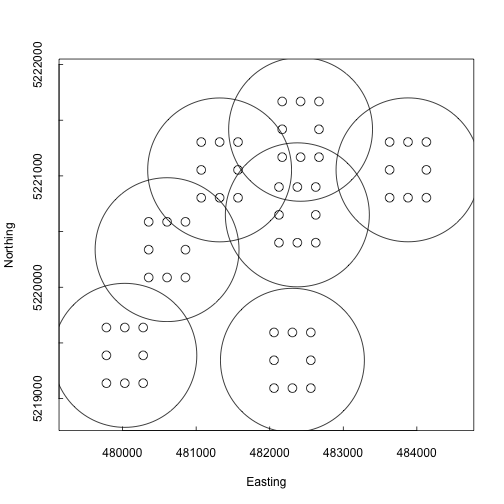
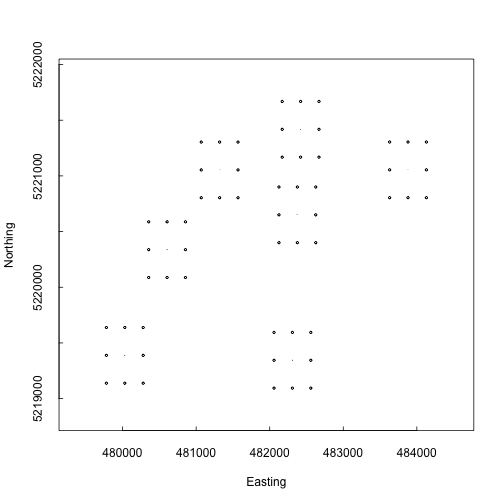
updated formatting

diff --git a/_posts/NEON-API/2017-07-23-NEON_API_ESA_2017.md b/_posts/NEON-API/2017-07-23-NEON_API_ESA_2017.md
@@ -4,11 +4,11 @@ title: "Using the NEON API in R"
 description: "Tutorial for getting data from the NEON API, using R and the R package httr"
 date:   2017-08-07
 dateCreated:  2017-07-07
-lastModified: 2017-08-02
+lastModified: 2017-08-04
 estimatedTime: 1 - 1.5 hours
-packagesLibraries: [httr, devtools, neonDataStackR]
+packagesLibraries: [httr, jsonlite, devtools, geoNEON, neonDataStackR]
 authors: [Claire K. Lunch]
-contributors: [Claire Lunch, Christine Laney, Megan A. Jones]
+contributors: [Christine Laney, Megan A. Jones]
 categories: [self-paced-tutorial]
 mainTag: API
 tags: [R, API]
@@ -24,8 +24,11 @@ comments: false
 {% include _toc.html %}
 
 ## About
-This is a lesson in pulling data from the NEON API, using base R 
-and the R package httr. There are 3 basic categories of NEON data:
+This is a lesson in pulling data from the NEON API. The lesson uses R 
+and the R package httr, but the core information about the API is applicable 
+to other languages and approaches.
+
+There are 3 basic categories of NEON data:
 
 1. Observational - Data collected by a human in the field, or in an analytical laboratory, e.g. beetle identification, foliar isotopes
 1. Instrumentation - Data collected by an automated, streaming sensor, e.g. net radiation, soil carbon dioxide
@@ -67,13 +70,22 @@ preferably, RStudio loaded on your computer.
 </div>
 
 ## Anatomy of an API call
+
+An example API call: http://data.neonscience.org/api/v0/data/DP1.10003.001/WOOD/2015-07
+
+This includes the base URL, endpoint, and target.
+
 ### Base URL: 
+<span style="color:red">http://data.neonscience.org/api/v0</span><span style="color:gray">/data/DP1.10003.001/WOOD/2015-07</span>
+
 Specifics are appended to this in order to get the data or 
 metadata you're looking for, but all calls to this API will include 
 the base URL. For the NEON API, this is http://data.neonscience.org/api/v0 
 (not clickable, because the base URL by itself will take you nowhere!)
 
 ### Endpoints: 
+<span style="color:gray">http://data.neonscience.org/api/v0</span><span style="color:red">/data</span><span style="color:gray">/DP1.10003.001/WOOD/2015-07</span>
+
 What type of data or metadata are you looking for?
 
 * **~/products**
@@ -89,6 +101,8 @@ What type of data or metadata are you looking for?
   Data! By product, site, and date (in monthly chunks).
 
 ### Targets:
+<span style="color:gray">http://data.neonscience.org/api/v0/data</span><span style="color:red">/DP1.10003.001/WOOD/2015-07</span>
+
 The specific product, site, or location you want to get data for.
 
 
@@ -97,17 +111,31 @@ Which product do you want to get data for? Consult the <a href="http://data.neon
 
 We'll pick Breeding landbird point counts, DP1.10003.001
 
-First query the products endpoint of the API to find out which sites and dates have data available. 
-The structure of the URL for the call is base/endpoint/DPID, where DPID is the numbered identifier 
-for the data product:
+First query the products endpoint of the API to find out which sites and dates 
+have data available. In the products endpoint, the target is the numbered 
+identifier for the data product:
 
 
     library(httr)
     library(jsonlite)
     library(dplyr, quietly=T)
+
+    ## Warning: package 'dplyr' was built under R version 3.4.1
+
+    ## 
+    ## Attaching package: 'dplyr'
+
+    ## The following objects are masked from 'package:stats':
+    ## 
+    ##     filter, lag
+
+    ## The following objects are masked from 'package:base':
+    ## 
+    ##     intersect, setdiff, setequal, union
+
     req <- GET("http://data.neonscience.org/api/v0/products/DP1.10003.001")
 
-The object returned from the GET has many layers of information. Entering the name of 
+The object returned from `GET()` has many layers of information. Entering the name of 
 the object gives you some basic information about what you downloaded. The `content()` 
 function returns the contents in the form of a highly nested list. This is typical of 
 JSON-formatted data returned by APIs:
@@ -116,7 +144,7 @@ JSON-formatted data returned by APIs:
     req
 
     ## Response [http://data.neonscience.org/api/v0/products/DP1.10003.001]
-    ##   Date: 2017-08-02 23:12
+    ##   Date: 2017-08-04 16:40
     ##   Status: 200
     ##   Content-Type: application/json;charset=UTF-8
     ##   Size: 7.18 kB
@@ -335,43 +363,43 @@ JSON-formatted data returned by APIs:
     ## 
     ## $data$siteCodes[[7]]
     ## $data$siteCodes[[7]]$siteCode
-    ## [1] "JERC"
+    ## [1] "SCBI"
     ## 
     ## $data$siteCodes[[7]]$availableMonths
     ## $data$siteCodes[[7]]$availableMonths[[1]]
+    ## [1] "2015-06"
+    ## 
+    ## $data$siteCodes[[7]]$availableMonths[[2]]
+    ## [1] "2016-05"
+    ## 
+    ## $data$siteCodes[[7]]$availableMonths[[3]]
     ## [1] "2016-06"
     ## 
     ## 
     ## $data$siteCodes[[7]]$availableDataUrls
     ## $data$siteCodes[[7]]$availableDataUrls[[1]]
-    ## [1] "http://data.neonscience.org:80/api/v0/data/DP1.10003.001/JERC/2016-06"
+    ## [1] "http://data.neonscience.org:80/api/v0/data/DP1.10003.001/SCBI/2015-06"
+    ## 
+    ## $data$siteCodes[[7]]$availableDataUrls[[2]]
+    ## [1] "http://data.neonscience.org:80/api/v0/data/DP1.10003.001/SCBI/2016-05"
+    ## 
+    ## $data$siteCodes[[7]]$availableDataUrls[[3]]
+    ## [1] "http://data.neonscience.org:80/api/v0/data/DP1.10003.001/SCBI/2016-06"
     ## 
     ## 
     ## 
     ## $data$siteCodes[[8]]
     ## $data$siteCodes[[8]]$siteCode
-    ## [1] "SCBI"
+    ## [1] "JERC"
     ## 
     ## $data$siteCodes[[8]]$availableMonths
     ## $data$siteCodes[[8]]$availableMonths[[1]]
-    ## [1] "2015-06"
-    ## 
-    ## $data$siteCodes[[8]]$availableMonths[[2]]
-    ## [1] "2016-05"
-    ## 
-    ## $data$siteCodes[[8]]$availableMonths[[3]]
     ## [1] "2016-06"
     ## 
     ## 
     ## $data$siteCodes[[8]]$availableDataUrls
     ## $data$siteCodes[[8]]$availableDataUrls[[1]]
-    ## [1] "http://data.neonscience.org:80/api/v0/data/DP1.10003.001/SCBI/2015-06"
-    ## 
-    ## $data$siteCodes[[8]]$availableDataUrls[[2]]
-    ## [1] "http://data.neonscience.org:80/api/v0/data/DP1.10003.001/SCBI/2016-05"
-    ## 
-    ## $data$siteCodes[[8]]$availableDataUrls[[3]]
-    ## [1] "http://data.neonscience.org:80/api/v0/data/DP1.10003.001/SCBI/2016-06"
+    ## [1] "http://data.neonscience.org:80/api/v0/data/DP1.10003.001/JERC/2016-06"
     ## 
     ## 
     ## 
@@ -635,8 +663,8 @@ we need. To use it, we need a text version of the content:
     ## 4      OSBS                   2016-05
     ## 5      GUAN                   2015-05
     ## 6      TREE                   2016-06
-    ## 7      JERC                   2016-06
-    ## 8      SCBI 2015-06, 2016-05, 2016-06
+    ## 7      SCBI 2015-06, 2016-05, 2016-06
+    ## 8      JERC                   2016-06
     ## 9      UNDE          2016-06, 2016-07
     ## 10     TALL          2015-06, 2016-07
     ## 11     STER          2015-05, 2016-05
@@ -653,8 +681,8 @@ we need. To use it, we need a text version of the content:
     ## 4                                                                                                                                                http://data.neonscience.org:80/api/v0/data/DP1.10003.001/OSBS/2016-05
     ## 5                                                                                                                                                http://data.neonscience.org:80/api/v0/data/DP1.10003.001/GUAN/2015-05
     ## 6                                                                                                                                                http://data.neonscience.org:80/api/v0/data/DP1.10003.001/TREE/2016-06
-    ## 7                                                                                                                                                http://data.neonscience.org:80/api/v0/data/DP1.10003.001/JERC/2016-06
-    ## 8  http://data.neonscience.org:80/api/v0/data/DP1.10003.001/SCBI/2015-06, http://data.neonscience.org:80/api/v0/data/DP1.10003.001/SCBI/2016-05, http://data.neonscience.org:80/api/v0/data/DP1.10003.001/SCBI/2016-06
+    ## 7  http://data.neonscience.org:80/api/v0/data/DP1.10003.001/SCBI/2015-06, http://data.neonscience.org:80/api/v0/data/DP1.10003.001/SCBI/2016-05, http://data.neonscience.org:80/api/v0/data/DP1.10003.001/SCBI/2016-06
+    ## 8                                                                                                                                                http://data.neonscience.org:80/api/v0/data/DP1.10003.001/JERC/2016-06
     ## 9                                                                         http://data.neonscience.org:80/api/v0/data/DP1.10003.001/UNDE/2016-06, http://data.neonscience.org:80/api/v0/data/DP1.10003.001/UNDE/2016-07
     ## 10                                                                        http://data.neonscience.org:80/api/v0/data/DP1.10003.001/TALL/2015-06, http://data.neonscience.org:80/api/v0/data/DP1.10003.001/TALL/2016-07
     ## 11                                                                        http://data.neonscience.org:80/api/v0/data/DP1.10003.001/STER/2015-05, http://data.neonscience.org:80/api/v0/data/DP1.10003.001/STER/2016-05
@@ -681,10 +709,10 @@ need to tell us what we can download.
     ##  [6] "http://data.neonscience.org:80/api/v0/data/DP1.10003.001/OSBS/2016-05"
     ##  [7] "http://data.neonscience.org:80/api/v0/data/DP1.10003.001/GUAN/2015-05"
     ##  [8] "http://data.neonscience.org:80/api/v0/data/DP1.10003.001/TREE/2016-06"
-    ##  [9] "http://data.neonscience.org:80/api/v0/data/DP1.10003.001/JERC/2016-06"
-    ## [10] "http://data.neonscience.org:80/api/v0/data/DP1.10003.001/SCBI/2015-06"
-    ## [11] "http://data.neonscience.org:80/api/v0/data/DP1.10003.001/SCBI/2016-05"
-    ## [12] "http://data.neonscience.org:80/api/v0/data/DP1.10003.001/SCBI/2016-06"
+    ##  [9] "http://data.neonscience.org:80/api/v0/data/DP1.10003.001/SCBI/2015-06"
+    ## [10] "http://data.neonscience.org:80/api/v0/data/DP1.10003.001/SCBI/2016-05"
+    ## [11] "http://data.neonscience.org:80/api/v0/data/DP1.10003.001/SCBI/2016-06"
+    ## [12] "http://data.neonscience.org:80/api/v0/data/DP1.10003.001/JERC/2016-06"
     ## [13] "http://data.neonscience.org:80/api/v0/data/DP1.10003.001/UNDE/2016-06"
     ## [14] "http://data.neonscience.org:80/api/v0/data/DP1.10003.001/UNDE/2016-07"
     ## [15] "http://data.neonscience.org:80/api/v0/data/DP1.10003.001/TALL/2015-06"
@@ -705,7 +733,7 @@ need to tell us what we can download.
 
 These are the URLs showing us what files are available for each month where 
 there are data. For simplicity, we'll just query the single month of data 
-available at the Woodworth site.
+available at the Woodworth (WOOD) site.
 
 
     brd <- GET(bird.urls[grep("WOOD", bird.urls)])
@@ -737,43 +765,43 @@ available at the Woodworth site.
     ## 6  69927
     ## 7  67239
     ##                                                                                                                                                                                                                                                                                                                                                                                                                                                                            url
-    ## 1                  https://neon-prod-pub-1.s3.data.neonscience.org/NEON.DOM.SITE.DP1.10003.001/PROV/WOOD/20150701T000000--20150801T000000/basic/NEON.D09.WOOD.DP0.10003.001.validation.20170720T182547Z.csv?X-Amz-Algorithm=AWS4-HMAC-SHA256&X-Amz-Date=20170802T231304Z&X-Amz-SignedHeaders=host&X-Amz-Expires=3600&X-Amz-Credential=pub-internal-read%2F20170802%2Fdata%2Fs3%2Faws4_request&X-Amz-Signature=fa9b000623b20e791bf27c428d8cfb47f43e30adf1b4569df51a178cdf64a393
-    ## 2 https://neon-prod-pub-1.s3.data.neonscience.org/NEON.DOM.SITE.DP1.10003.001/PROV/WOOD/20150701T000000--20150801T000000/basic/NEON.D09.WOOD.DP1.10003.001.brd_countdata.2015-07.basic.20170720T182547Z.csv?X-Amz-Algorithm=AWS4-HMAC-SHA256&X-Amz-Date=20170802T231304Z&X-Amz-SignedHeaders=host&X-Amz-Expires=3600&X-Amz-Credential=pub-internal-read%2F20170802%2Fdata%2Fs3%2Faws4_request&X-Amz-Signature=d4ae04145ca165afea8b4d70b00437df38df2bc95d19287fe88b6a9645cbfd34
-    ## 3                   https://neon-prod-pub-1.s3.data.neonscience.org/NEON.DOM.SITE.DP1.10003.001/PROV/WOOD/20150701T000000--20150801T000000/basic/NEON.D09.WOOD.DP1.10003.001.variables.20170720T182547Z.csv?X-Amz-Algorithm=AWS4-HMAC-SHA256&X-Amz-Date=20170802T231304Z&X-Amz-SignedHeaders=host&X-Amz-Expires=3600&X-Amz-Credential=pub-internal-read%2F20170802%2Fdata%2Fs3%2Faws4_request&X-Amz-Signature=0e0dc227aba0cfe11d73b106d6171839f791f1b648a5103876c54c33e87ca5f0
-    ## 4                                                https://neon-prod-pub-1.s3.data.neonscience.org/NEON.DOM.SITE.DP1.10003.001/PROV/WOOD/20150701T000000--20150801T000000/basic/NEON.DP1.10003.001_readme.txt?X-Amz-Algorithm=AWS4-HMAC-SHA256&X-Amz-Date=20170802T231304Z&X-Amz-SignedHeaders=host&X-Amz-Expires=3600&X-Amz-Credential=pub-internal-read%2F20170802%2Fdata%2Fs3%2Faws4_request&X-Amz-Signature=77fc31d5f4d1bfbdde6397cea8fc81592548cf43cb4401f5386af2948c0bd3ca
-    ## 5  https://neon-prod-pub-1.s3.data.neonscience.org/NEON.DOM.SITE.DP1.10003.001/PROV/WOOD/20150701T000000--20150801T000000/basic/NEON.D09.WOOD.DP1.10003.001.brd_perpoint.2015-07.basic.20170720T182547Z.csv?X-Amz-Algorithm=AWS4-HMAC-SHA256&X-Amz-Date=20170802T231304Z&X-Amz-SignedHeaders=host&X-Amz-Expires=3600&X-Amz-Credential=pub-internal-read%2F20170802%2Fdata%2Fs3%2Faws4_request&X-Amz-Signature=012da88765d144296816d3cf7c05877224c7d833ac44148fa0a8bc94d85ae2e4
-    ## 6                            https://neon-prod-pub-1.s3.data.neonscience.org/NEON.DOM.SITE.DP1.10003.001/PROV/WOOD/20150701T000000--20150801T000000/basic/NEON.D09.WOOD.DP1.10003.001.20150101-20160613.xml?X-Amz-Algorithm=AWS4-HMAC-SHA256&X-Amz-Date=20170802T231304Z&X-Amz-SignedHeaders=host&X-Amz-Expires=3599&X-Amz-Credential=pub-internal-read%2F20170802%2Fdata%2Fs3%2Faws4_request&X-Amz-Signature=9e19f4f37f57ea287cac7507b6eb25ebc6b39430d9f1da487e8ee33eccb29160
-    ## 7               https://neon-prod-pub-1.s3.data.neonscience.org/NEON.DOM.SITE.DP1.10003.001/PROV/WOOD/20150701T000000--20150801T000000/basic/NEON.D09.WOOD.DP1.10003.001.2015-07.basic.20170720T182547Z.zip?X-Amz-Algorithm=AWS4-HMAC-SHA256&X-Amz-Date=20170802T231304Z&X-Amz-SignedHeaders=host&X-Amz-Expires=3600&X-Amz-Credential=pub-internal-read%2F20170802%2Fdata%2Fs3%2Faws4_request&X-Amz-Signature=c0c2092182b1eb1361a836ebf7b6573c7dce787312a634ffd34328eb36454833
+    ## 1                  https://neon-prod-pub-1.s3.data.neonscience.org/NEON.DOM.SITE.DP1.10003.001/PROV/WOOD/20150701T000000--20150801T000000/basic/NEON.D09.WOOD.DP0.10003.001.validation.20170720T182547Z.csv?X-Amz-Algorithm=AWS4-HMAC-SHA256&X-Amz-Date=20170804T164020Z&X-Amz-SignedHeaders=host&X-Amz-Expires=3600&X-Amz-Credential=pub-internal-read%2F20170804%2Fdata%2Fs3%2Faws4_request&X-Amz-Signature=2cf45526ec0dbec6773b654ef2b1a84ac4652e34015ec0a0a6c76242010e9769
+    ## 2 https://neon-prod-pub-1.s3.data.neonscience.org/NEON.DOM.SITE.DP1.10003.001/PROV/WOOD/20150701T000000--20150801T000000/basic/NEON.D09.WOOD.DP1.10003.001.brd_countdata.2015-07.basic.20170720T182547Z.csv?X-Amz-Algorithm=AWS4-HMAC-SHA256&X-Amz-Date=20170804T164020Z&X-Amz-SignedHeaders=host&X-Amz-Expires=3600&X-Amz-Credential=pub-internal-read%2F20170804%2Fdata%2Fs3%2Faws4_request&X-Amz-Signature=f59e46510e629f4f0a094e79496856313fc1cc1e23ce8f848365c9f2999827bd
+    ## 3                   https://neon-prod-pub-1.s3.data.neonscience.org/NEON.DOM.SITE.DP1.10003.001/PROV/WOOD/20150701T000000--20150801T000000/basic/NEON.D09.WOOD.DP1.10003.001.variables.20170720T182547Z.csv?X-Amz-Algorithm=AWS4-HMAC-SHA256&X-Amz-Date=20170804T164020Z&X-Amz-SignedHeaders=host&X-Amz-Expires=3600&X-Amz-Credential=pub-internal-read%2F20170804%2Fdata%2Fs3%2Faws4_request&X-Amz-Signature=be6abcf1930bc0aad6e4813fe281b3f1fdea968a0aa4729e0a92455416efcdc9
+    ## 4                                                https://neon-prod-pub-1.s3.data.neonscience.org/NEON.DOM.SITE.DP1.10003.001/PROV/WOOD/20150701T000000--20150801T000000/basic/NEON.DP1.10003.001_readme.txt?X-Amz-Algorithm=AWS4-HMAC-SHA256&X-Amz-Date=20170804T164020Z&X-Amz-SignedHeaders=host&X-Amz-Expires=3600&X-Amz-Credential=pub-internal-read%2F20170804%2Fdata%2Fs3%2Faws4_request&X-Amz-Signature=8e02ec526497b50de590fb90d078dab78fb21d61f86d066d0702780811467522
+    ## 5  https://neon-prod-pub-1.s3.data.neonscience.org/NEON.DOM.SITE.DP1.10003.001/PROV/WOOD/20150701T000000--20150801T000000/basic/NEON.D09.WOOD.DP1.10003.001.brd_perpoint.2015-07.basic.20170720T182547Z.csv?X-Amz-Algorithm=AWS4-HMAC-SHA256&X-Amz-Date=20170804T164020Z&X-Amz-SignedHeaders=host&X-Amz-Expires=3600&X-Amz-Credential=pub-internal-read%2F20170804%2Fdata%2Fs3%2Faws4_request&X-Amz-Signature=f3e6e7d2dee90f0f32f02197acb41ffc78cab79b391104a661d068722ea0163f
+    ## 6                            https://neon-prod-pub-1.s3.data.neonscience.org/NEON.DOM.SITE.DP1.10003.001/PROV/WOOD/20150701T000000--20150801T000000/basic/NEON.D09.WOOD.DP1.10003.001.20150101-20160613.xml?X-Amz-Algorithm=AWS4-HMAC-SHA256&X-Amz-Date=20170804T164020Z&X-Amz-SignedHeaders=host&X-Amz-Expires=3600&X-Amz-Credential=pub-internal-read%2F20170804%2Fdata%2Fs3%2Faws4_request&X-Amz-Signature=04d8e0bd60f590cb41bfe5e7e00ebcd295f0b76ba362499332c30790d972f760
+    ## 7               https://neon-prod-pub-1.s3.data.neonscience.org/NEON.DOM.SITE.DP1.10003.001/PROV/WOOD/20150701T000000--20150801T000000/basic/NEON.D09.WOOD.DP1.10003.001.2015-07.basic.20170720T182547Z.zip?X-Amz-Algorithm=AWS4-HMAC-SHA256&X-Amz-Date=20170804T164020Z&X-Amz-SignedHeaders=host&X-Amz-Expires=3600&X-Amz-Credential=pub-internal-read%2F20170804%2Fdata%2Fs3%2Faws4_request&X-Amz-Signature=2894ff4ed5282db0bb7d992b2d4e9aa6bf5b947168e0772e136e588c91c3fb96
 
 And now we have the names of the data files available for this site and 
 month, and URLs where we can get the data files themselves. We'll use 
 the file names to pick which ones we want. To translate, available files for 
 July 2015 at Woodworth are all of the following: 
 
-* NEON.D09.WOOD.DP1.10003.001.2015-07.expanded.20170720T182547Z.zip
+* **NEON.D09.WOOD.DP1.10003.001.2015-07.expanded.20170720T182547Z.zip**
   + zip of all files in the expanded package
-* NEON.D09.WOOD.DP1.10003.001.brd_countdata.2015-07.expanded.20170720T182547Z.csv
+* **NEON.D09.WOOD.DP1.10003.001.brd_countdata.2015-07.expanded.20170720T182547Z.csv**
   + count data table, expanded package version: counts of birds at each point
-* NEON.D09.WOOD.DP1.10003.001.brd_perpoint.2015-07.expanded.20170720T182547Z.csv
+* **NEON.D09.WOOD.DP1.10003.001.brd_perpoint.2015-07.expanded.20170720T182547Z.csv**
   + point data table, expanded package version: metadata at each observation point
-* NEON.Bird Conservancy of the Rockies.brd_personnel.csv
+* **NEON.Bird Conservancy of the Rockies.brd_personnel.csv**
   + personnel data table: accuracy scores for bird observers
-* NEON.D09.WOOD.DP1.10003.001.2015-07.basic.20170720T182547Z.zip
+* **NEON.D09.WOOD.DP1.10003.001.2015-07.basic.20170720T182547Z.zip**
   + zip of all files in the basic package
-* NEON.D09.WOOD.DP1.10003.001.brd_countdata.2015-07.basic.20170720T182547Z.csv
+* **NEON.D09.WOOD.DP1.10003.001.brd_countdata.2015-07.basic.20170720T182547Z.csv**
   + count data table, basic package version: counts of birds at each point
-* NEON.D09.WOOD.DP1.10003.001.brd_perpoint.2015-07.basic.20170720T182547Z.csv
+* **NEON.D09.WOOD.DP1.10003.001.brd_perpoint.2015-07.basic.20170720T182547Z.csv**
   + point data table, basic package version: metadata at each observation point
-* NEON.DP1.10003.001_readme.txt
+* **NEON.DP1.10003.001_readme.txt**
   + readme for the data product (not specific to dates or location)
   + appears twice in the list, since it's in both the basic and expanded package
-* NEON.D09.WOOD.DP1.10003.001.20150101-20160613.xml
+* **NEON.D09.WOOD.DP1.10003.001.20150101-20160613.xml**
   + Ecological Metadata Language (EML) file
   + appears twice in the list, since it's in both the basic and expanded package
-* NEON.D09.WOOD.DP0.10003.001.validation.20170720T182547Z.csv
+* **NEON.D09.WOOD.DP0.10003.001.validation.20170720T182547Z.csv**
   + validation file for the data product: lists input data and data entry rules
   + appears twice in the list, since it's in both the basic and expanded package
-* NEON.D09.WOOD.DP1.10003.001.variables.20170720T182547Z.csv
+* **NEON.D09.WOOD.DP1.10003.001.variables.20170720T182547Z.csv**
   + variables file for the data product: lists data fields in downloaded tables
   + appears twice in the list, since it's in both the basic and expanded package
 
@@ -1040,30 +1068,30 @@ WOOD_013.birdGrid.brd
     ## 
     ## $data$locationProperties
     ##                             locationPropertyName locationPropertyValue
-    ## 1                              Value for Plot ID              WOOD_013
-    ## 2                            Value for Plot size                250000
-    ## 3                            Value for Plot type           distributed
-    ## 4                      Value for Plot dimensions           500m x 500m
-    ## 5             Value for Reference Point Position                    B2
+    ## 1                            Value for Plot size                250000
+    ## 2             Value for Reference Point Position                    B2
+    ## 3                         Value for Plot subtype              birdGrid
+    ## 4                      Value for Soil type order             Mollisols
+    ## 5                            Value for Plot type           distributed
     ## 6                Value for Subtype Specification            ninePoints
-    ## 7                      Value for Soil type order             Mollisols
+    ## 7                              Value for Plot ID              WOOD_013
     ## 8  Value for National Land Cover Database (2001)   grasslandHerbaceous
-    ## 9                         Value for Plot subtype              birdGrid
-    ## 10                      Value for Geodetic datum                 WGS84
-    ## 11                              Value for County              Stutsman
-    ## 12                        Value for Slope aspect                238.91
+    ## 9                      Value for Plot dimensions           500m x 500m
+    ## 10                      Value for State province                    ND
+    ## 11                        Value for Slope aspect                238.91
+    ## 12                   Value for Minimum elevation                569.79
     ## 13                   Value for Maximum elevation                579.31
-    ## 14    Value for Positional dilution of precision                   2.4
-    ## 15                      Value for State province                    ND
-    ## 16                             Value for Country          unitedStates
-    ## 17               Value for Elevation uncertainty                  0.48
-    ## 18                   Value for Coordinate source            GeoXH 6000
-    ## 19                  Value for Filtered positions                   121
-    ## 20                      Value for Slope gradient                  2.83
-    ## 21                            Value for UTM Zone                   14N
-    ## 22    Value for Horizontal dilution of precision                     1
-    ## 23              Value for Coordinate uncertainty                  0.28
-    ## 24                   Value for Minimum elevation                569.79
+    ## 14                  Value for Filtered positions                   121
+    ## 15                            Value for UTM Zone                   14N
+    ## 16                      Value for Slope gradient                  2.83
+    ## 17    Value for Horizontal dilution of precision                     1
+    ## 18                             Value for Country          unitedStates
+    ## 19                   Value for Coordinate source            GeoXH 6000
+    ## 20              Value for Coordinate uncertainty                  0.28
+    ## 21    Value for Positional dilution of precision                   2.4
+    ## 22                      Value for Geodetic datum                 WGS84
+    ## 23                              Value for County              Stutsman
+    ## 24               Value for Elevation uncertainty                  0.48
 
 Note spatial information under `$data` and under `$data$locationProperties`.
 Also note `$data$locationChildren`: these are the finer scale locations that 
@@ -1071,15 +1099,16 @@ can be used to calculate precise spatial data for bird observations.
 
 For convenience, we'll use the geoNEON package to make the calculations. 
 First we'll use `def.extr.geo.os()` to get the additional spatial information 
-available through the API:
+available through the API, and look at the spatial resolution available in the 
+initial download:
 
 
     library(geoNEON)
     brd.point.loc <- def.extr.geo.os(brd.point)
     
     symbols(brd.point.loc$easting, brd.point.loc$northing, 
-            circles=brd.point.loc$coordinateUncertainty, 
-            xlab="Easting", ylab="Northing", tck=0.01)
+            circles=brd.point.loc$uncorr.coordinateUncertainty, 
+            xlab="Easting", ylab="Northing", tck=0.01, inches=F)
 
 ![ ]({{ site.baseurl }}/images/rfigs/NEON-API/NEON_API_ESA_2017/brd-extr-NL-1.png)
 
@@ -1090,13 +1119,10 @@ observations:
     brd.point.pt <- def.calc.geo.os(brd.point, "brd_perpoint")
     
     symbols(brd.point.pt$easting, brd.point.pt$northing, 
-            circles=brd.point.pt$adjCoordinateUncertainty, 
-            xlab="Easting", ylab="Northing", tck=0.01)
+            circles=brd.point.pt$coordinateUncertainty, 
+            xlab="Easting", ylab="Northing", tck=0.01, inches=F)
 
 ![ ]({{ site.baseurl }}/images/rfigs/NEON-API/NEON_API_ESA_2017/brd-calc-NL-1.png)
-
-(Need to fix geoNEON bird code so B2 points calculate correctly, 
-large circles should be gone from the second plot)
 
 
 ## Coming soon
